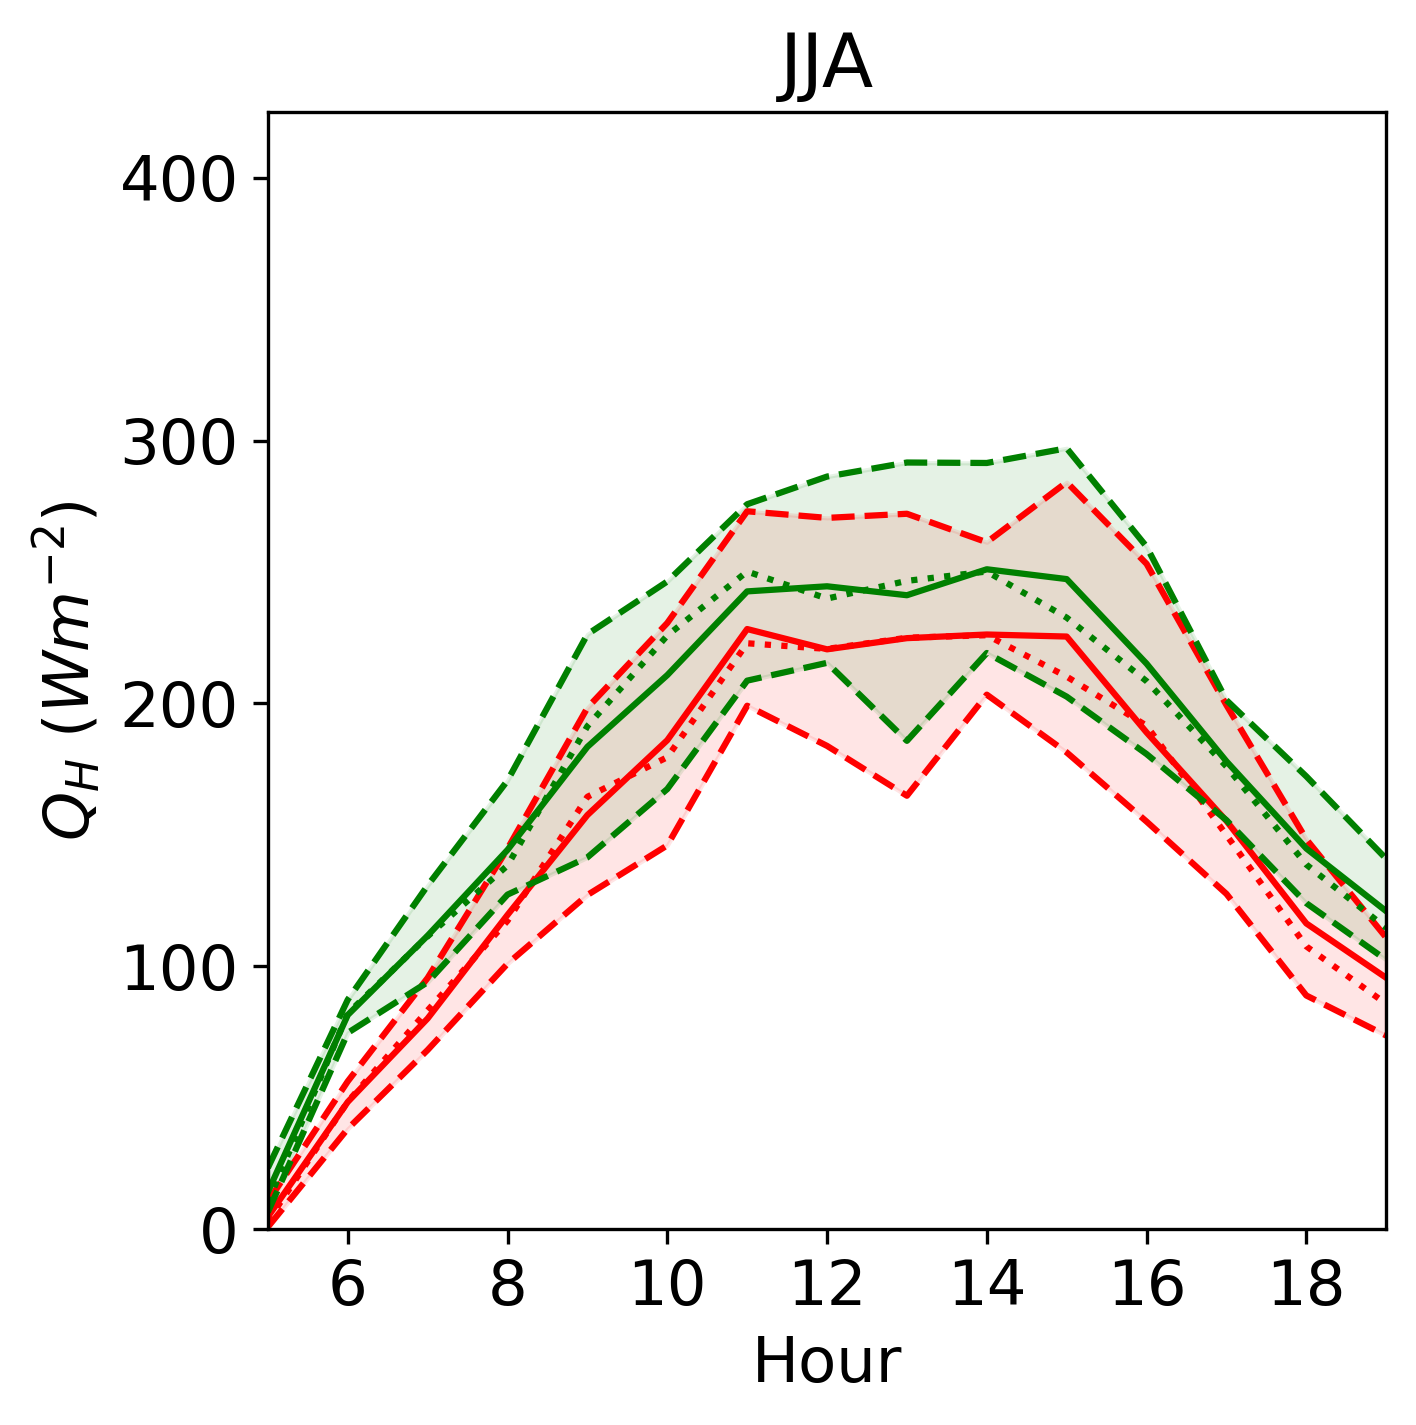
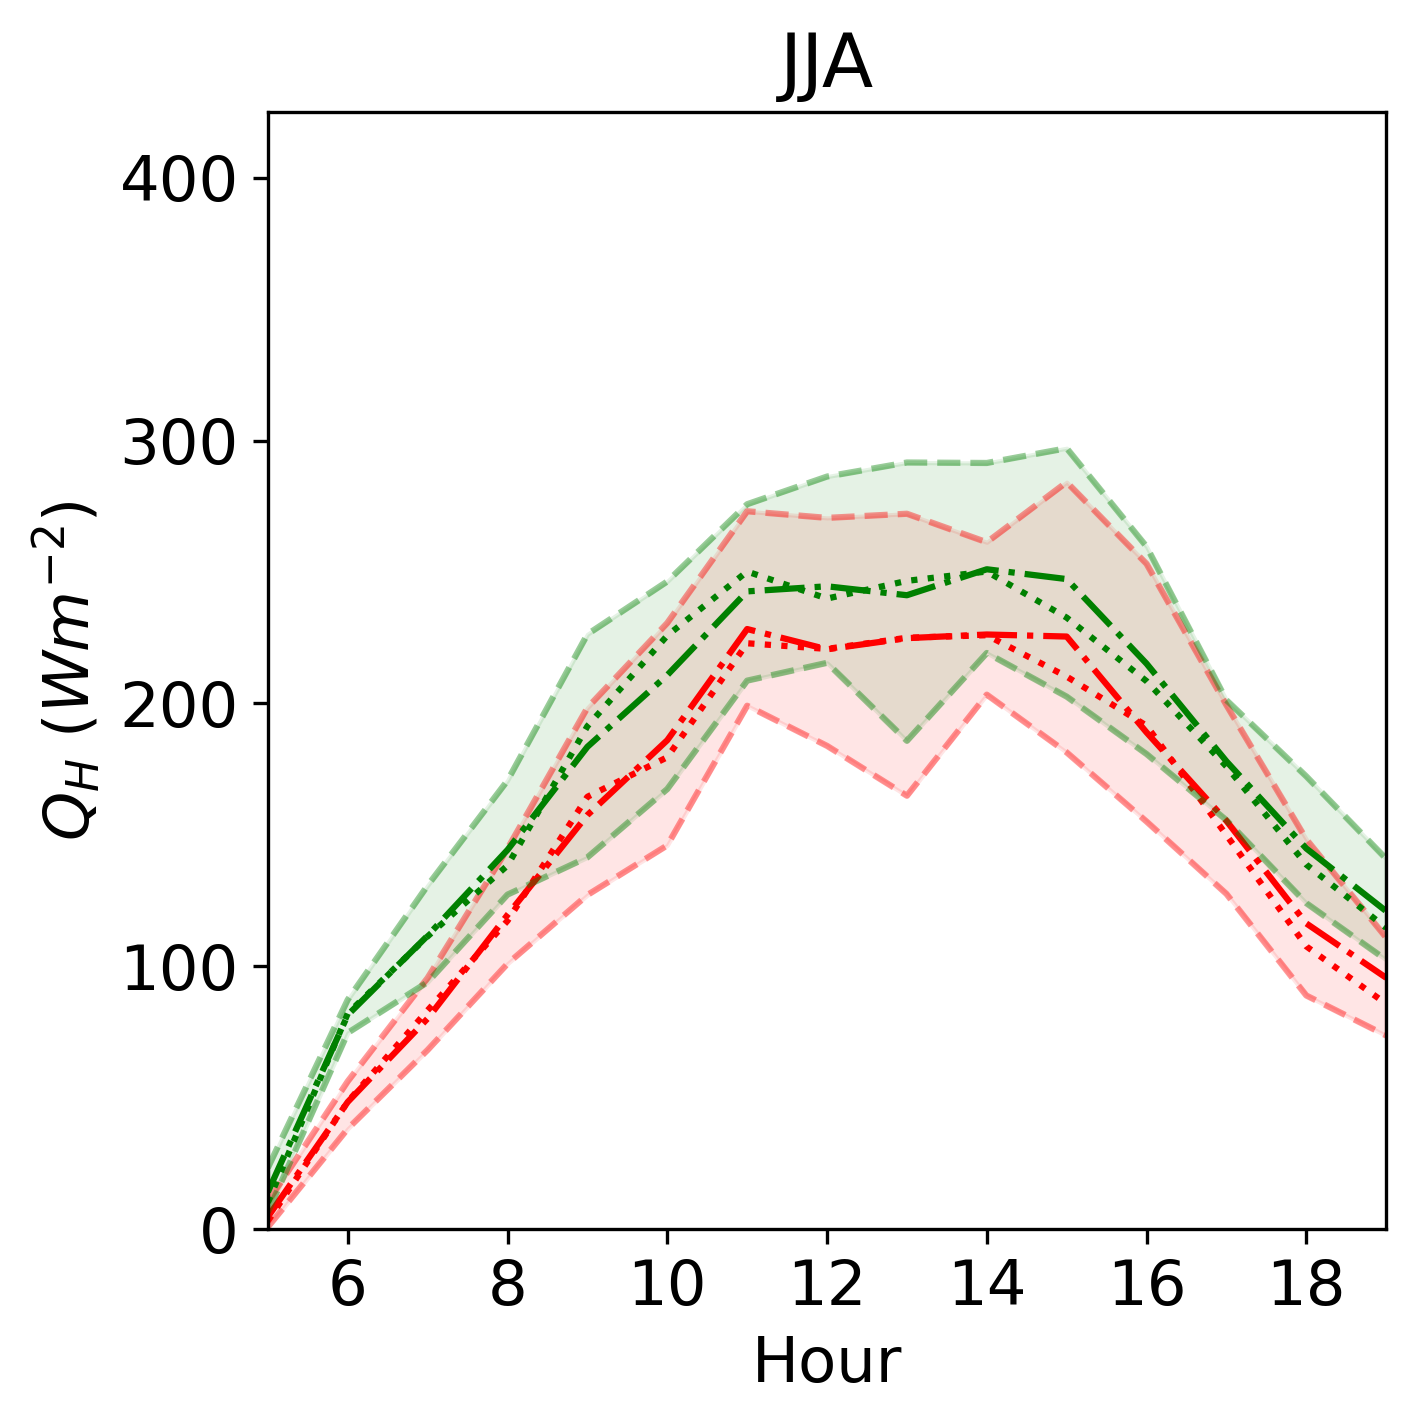
swap line styles round

diff --git a/scint_plots/scint_seasonality/seasonality_funs.py b/scint_plots/scint_seasonality/seasonality_funs.py
@@ -33,10 +33,10 @@ def plot_season_one_panel(season_dict, save_path, variable='QH'):
                 IQR_dict = IQR_path_dict[path]
                 pair_id = look_up.scint_path_numbers[int(path.split('_')[-1])]
 
-                ax.plot(IQR_dict['mean'].index, IQR_dict['mean'], color=colour_dict[pair_id])
+                ax.plot(IQR_dict['mean'].index, IQR_dict['mean'], color=colour_dict[pair_id], linestyle='-.')
                 ax.plot(IQR_dict['median'].index, IQR_dict['median'], color=colour_dict[pair_id], linestyle=':')
-                ax.plot(IQR_dict['25'].columns, IQR_dict['25'].iloc[0], color=colour_dict[pair_id], linestyle='--')
-                ax.plot(IQR_dict['75'].columns, IQR_dict['75'].iloc[0], colour_dict[pair_id], linestyle='--')
+                ax.plot(IQR_dict['25'].columns, IQR_dict['25'].iloc[0], color=colour_dict[pair_id], linestyle='--', alpha=0.4)
+                ax.plot(IQR_dict['75'].columns, IQR_dict['75'].iloc[0], colour_dict[pair_id], linestyle='--', alpha=0.4)
                 ax.fill_between(IQR_dict['25'].columns, IQR_dict['25'].iloc[0], IQR_dict['75'].iloc[0],
                                 color=colour_dict[pair_id], alpha=0.1)
 
